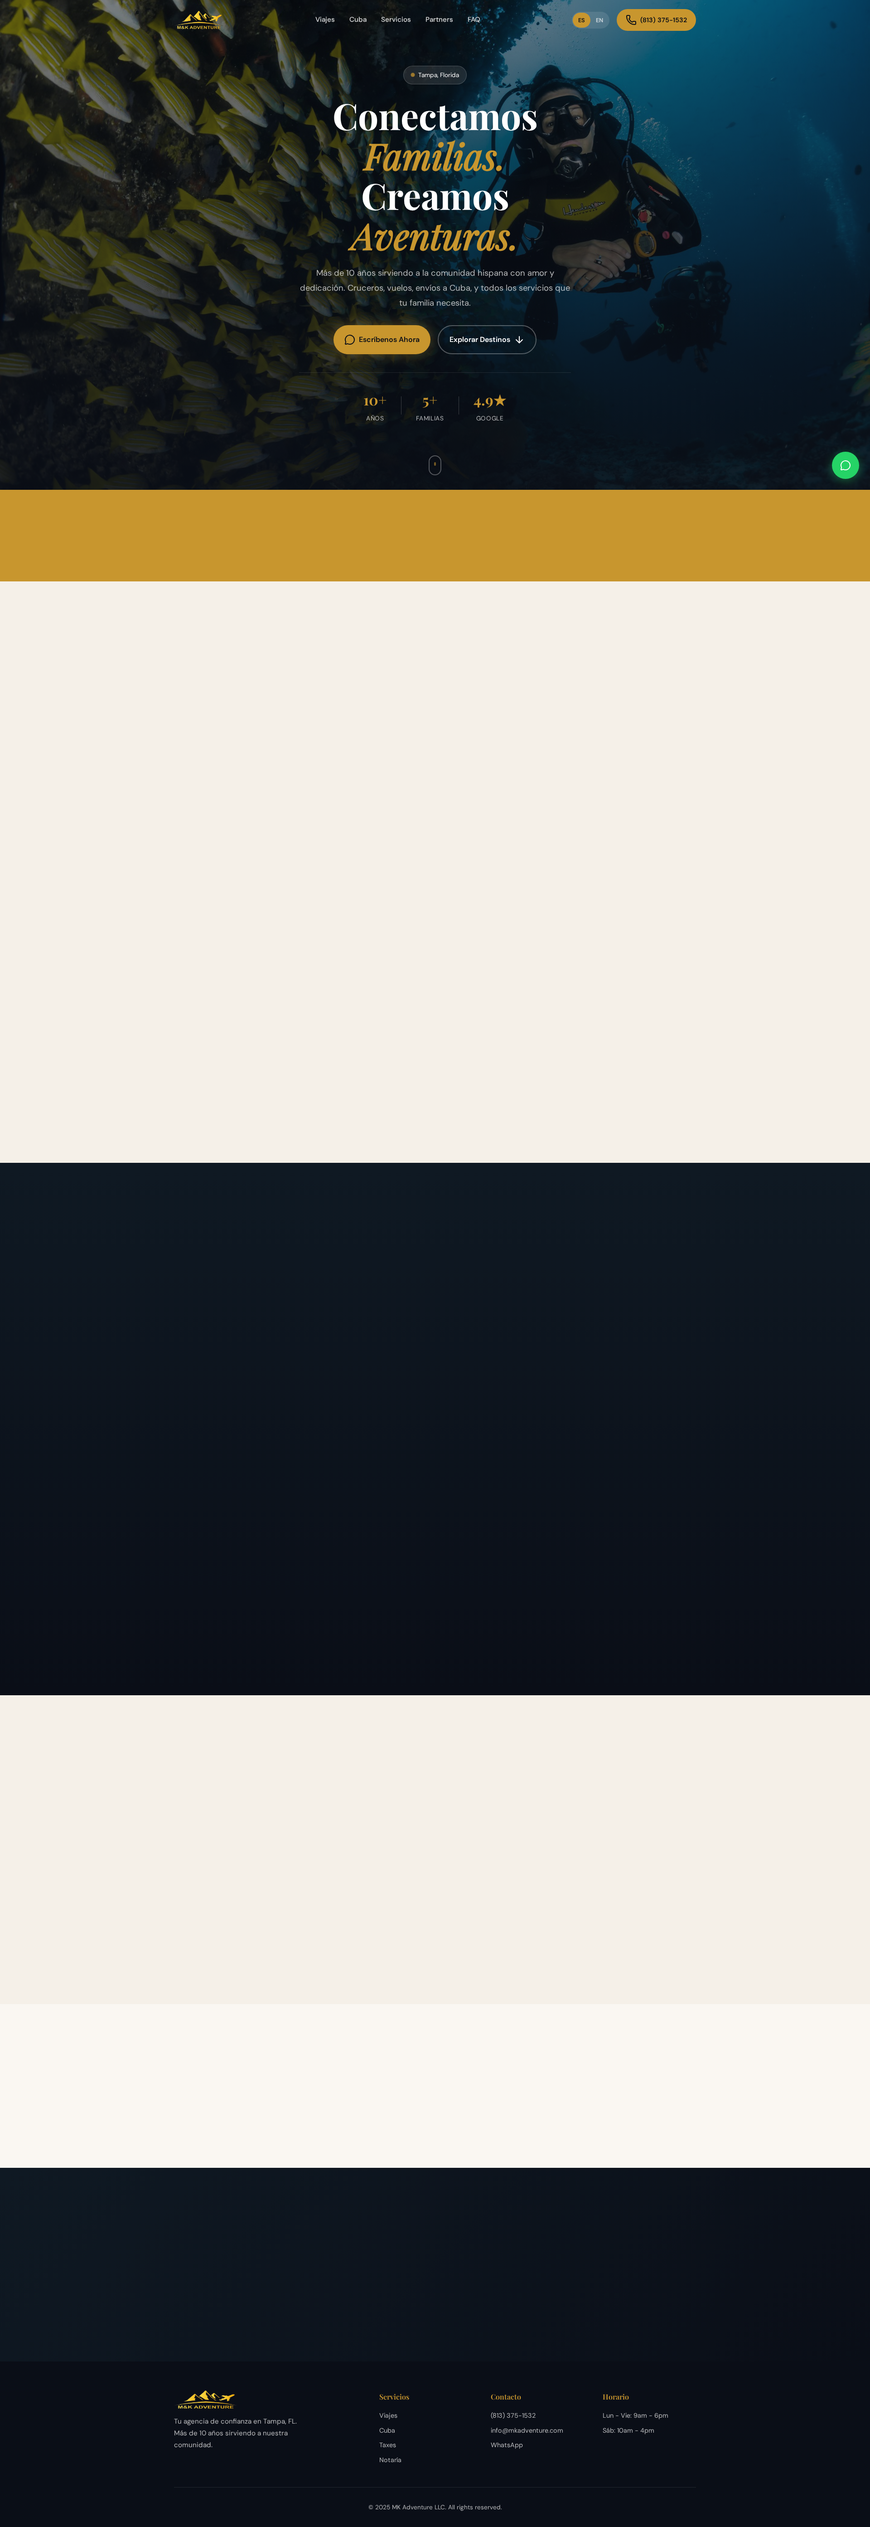
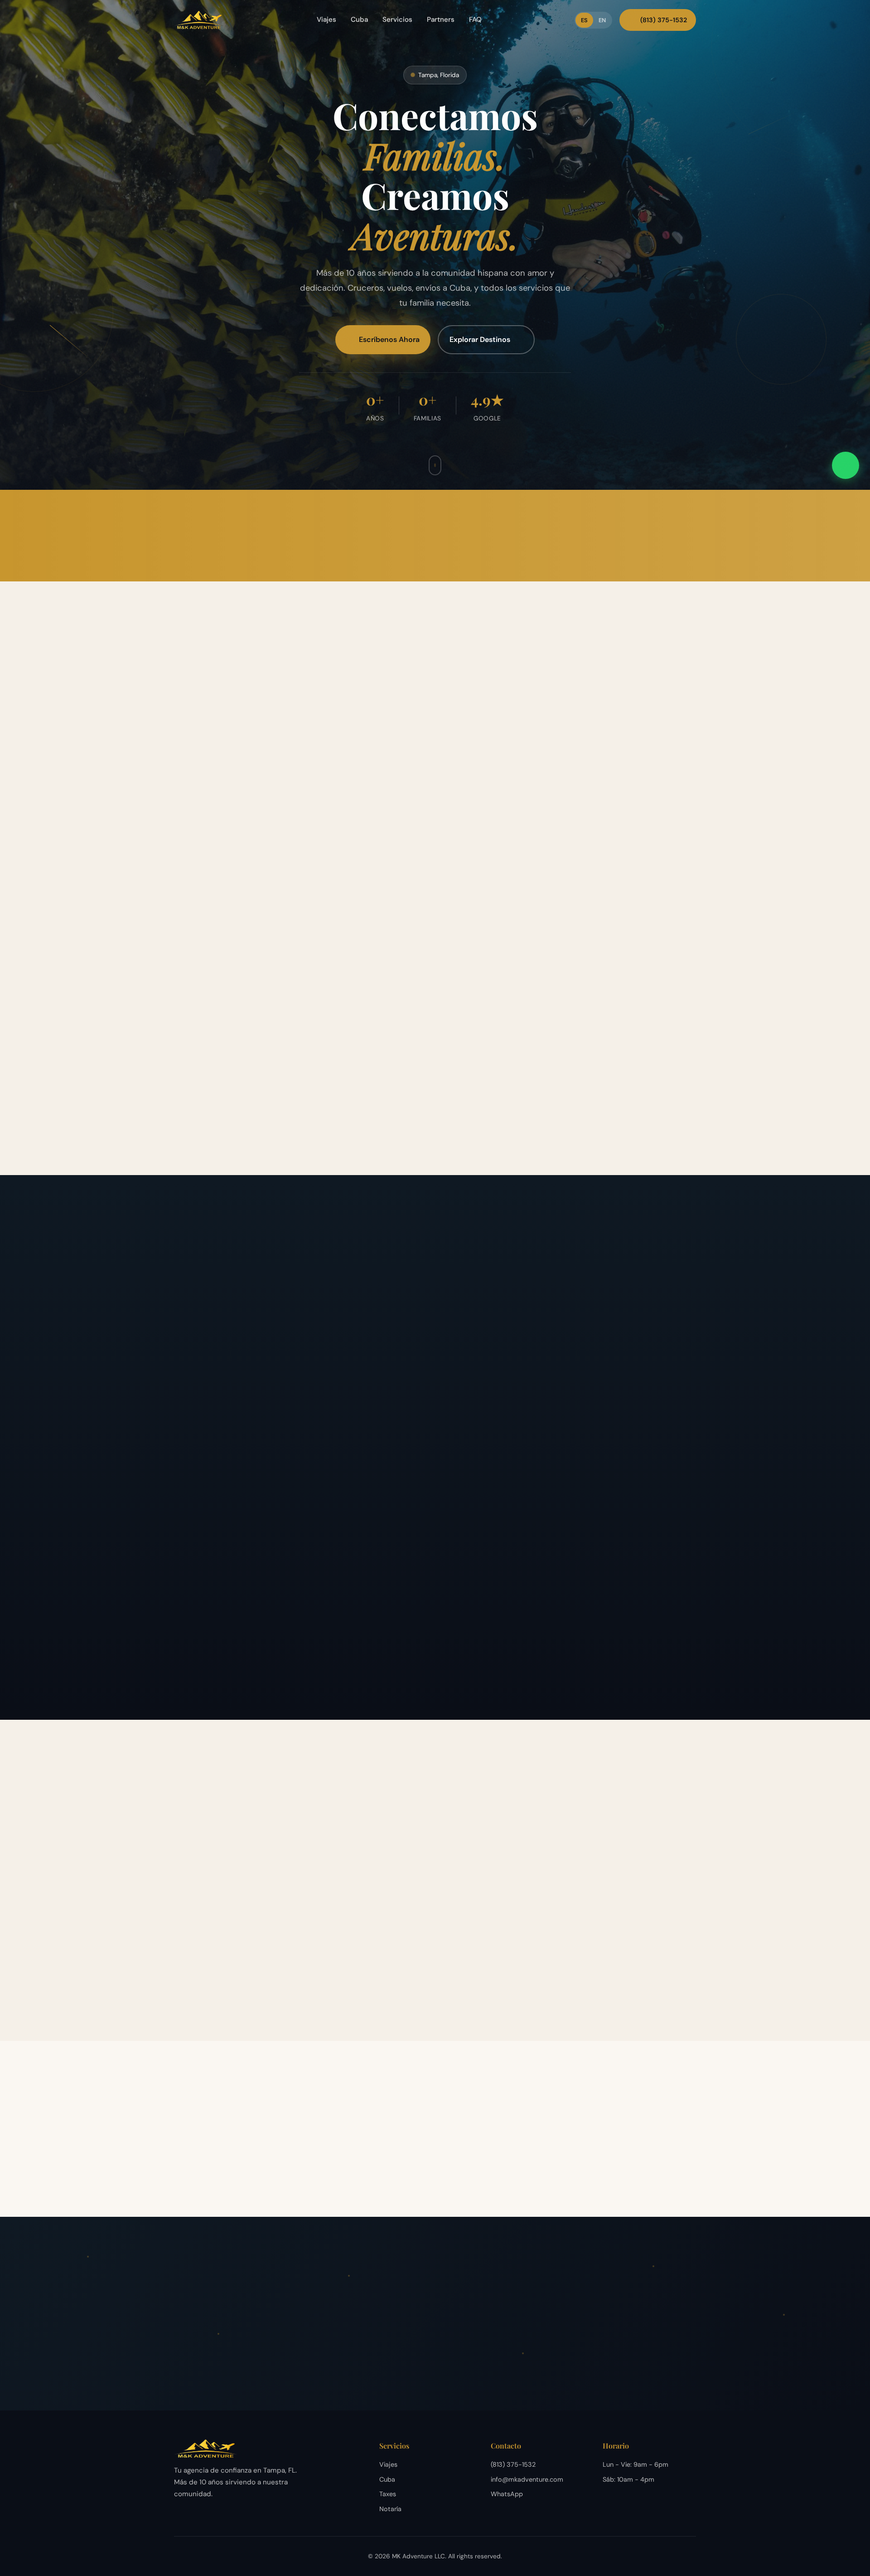
fix: remove statistics sections (10+ years, 4.9 Google) from all demos

diff --git a/demos/demo-complete/index.html b/demos/demo-complete/index.html
@@ -1293,29 +1293,7 @@
     </div>
   </section>
 
-  <!-- ========== STATS BAR ========== -->
-  <section class="stats-bar">
-    <div class="container">
-      <div class="stats-bar__inner">
-        <div class="stat" data-aos="fade-up" data-aos-delay="0">
-          <div class="stat__number">10+</div>
-          <div class="stat__label">Years Experience</div>
-        </div>
-        <div class="stat" data-aos="fade-up" data-aos-delay="100">
-          <div class="stat__number">5K+</div>
-          <div class="stat__label">Happy Clients</div>
-        </div>
-        <div class="stat" data-aos="fade-up" data-aos-delay="200">
-          <div class="stat__number">15K+</div>
-          <div class="stat__label">Packages Delivered</div>
-        </div>
-        <div class="stat" data-aos="fade-up" data-aos-delay="300">
-          <div class="stat__number">4.9★</div>
-          <div class="stat__label">Customer Rating</div>
-        </div>
-      </div>
-    </div>
-  </section>
+
 
   <!-- ========== SERVICES ========== -->
   <section class="services" id="services">

diff --git a/demos/mkadventure-v5-bold/index.html b/demos/mkadventure-v5-bold/index.html
@@ -69,20 +69,7 @@
                     <span class="hero-accent">Aventuras.</span>
                 </h1>
                 
-                <div class="hero-stats">
-                    <div class="stat-block">
-                        <span class="stat-number">10+</span>
-                        <span class="stat-text t" data-es="Años" data-en="Years">Años</span>
-                    </div>
-                    <div class="stat-block">
-                        <span class="stat-number">5K+</span>
-                        <span class="stat-text t" data-es="Familias" data-en="Families">Familias</span>
-                    </div>
-                    <div class="stat-block">
-                        <span class="stat-number">100%</span>
-                        <span class="stat-text t" data-es="Confianza" data-en="Trust">Confianza</span>
-                    </div>
-                </div>
+
                 
                 <div class="hero-cta">
                     <a href="https://wa.me/19562172274" class="btn btn-primary">

diff --git a/demos/mkadventure-v4-warm/index.html b/demos/mkadventure-v4-warm/index.html
@@ -511,22 +511,7 @@
                 </a>
             </div>
             
-            <div class="hero-stats" data-aos="fade-up" data-aos-delay="1000">
-                <div class="stat-item">
-                    <span class="stat-num" data-count="10">0+</span>
-                    <span class="stat-label t" data-es="Años" data-en="Years">Años</span>
-                </div>
-                <div class="stat-divider"></div>
-                <div class="stat-item">
-                    <span class="stat-num" data-count="5000">0+</span>
-                    <span class="stat-label t" data-es="Familias" data-en="Families">Familias</span>
-                </div>
-                <div class="stat-divider"></div>
-                <div class="stat-item">
-                    <span class="stat-num">4.9★</span>
-                    <span class="stat-label">Google</span>
-                </div>
-            </div>
+
         </div>
         
         <div class="hero-scroll" aria-hidden="true">

diff --git a/demos/mkadventure-v3-motion/index.html b/demos/mkadventure-v3-motion/index.html
@@ -145,18 +145,7 @@
                     <i data-lucide="arrow-right" class="booking-arrow"></i>
                 </a>
                 
-                <div class="booking-card booking-stats reveal-up" data-delay="300">
-                    <div class="stat">
-                        <span class="stat-num" data-target="10">0</span>
-                        <span class="stat-suffix">+</span>
-                        <span class="stat-label t" data-es="Años" data-en="Years">Años</span>
-                    </div>
-                    <div class="stat">
-                        <span class="stat-num" data-target="5000">0</span>
-                        <span class="stat-suffix">+</span>
-                        <span class="stat-label t" data-es="Clientes" data-en="Clients">Clientes</span>
-                    </div>
-                </div>
+
             </div>
         </div>
     </section>

diff --git a/demos/mkadventure-v2-bento/index.html b/demos/mkadventure-v2-bento/index.html
@@ -62,19 +62,7 @@
                 </div>
             </div>
 
-            <!-- Stats -->
-            <div class="hero-stat stat-gold">
-                <span class="stat-num">10+</span>
-                <span class="stat-label t" data-es="Años" data-en="Years">Años</span>
-            </div>
-            <div class="hero-stat stat-blue">
-                <span class="stat-num">2K+</span>
-                <span class="stat-label t" data-es="Familias" data-en="Families">Familias</span>
-            </div>
-            <div class="hero-stat stat-green">
-                <span class="stat-num">4.9★</span>
-                <span class="stat-label">Google</span>
-            </div>
+
 
             <!-- Preview Cards -->
             <a href="#viajes" class="hero-preview cruise">
